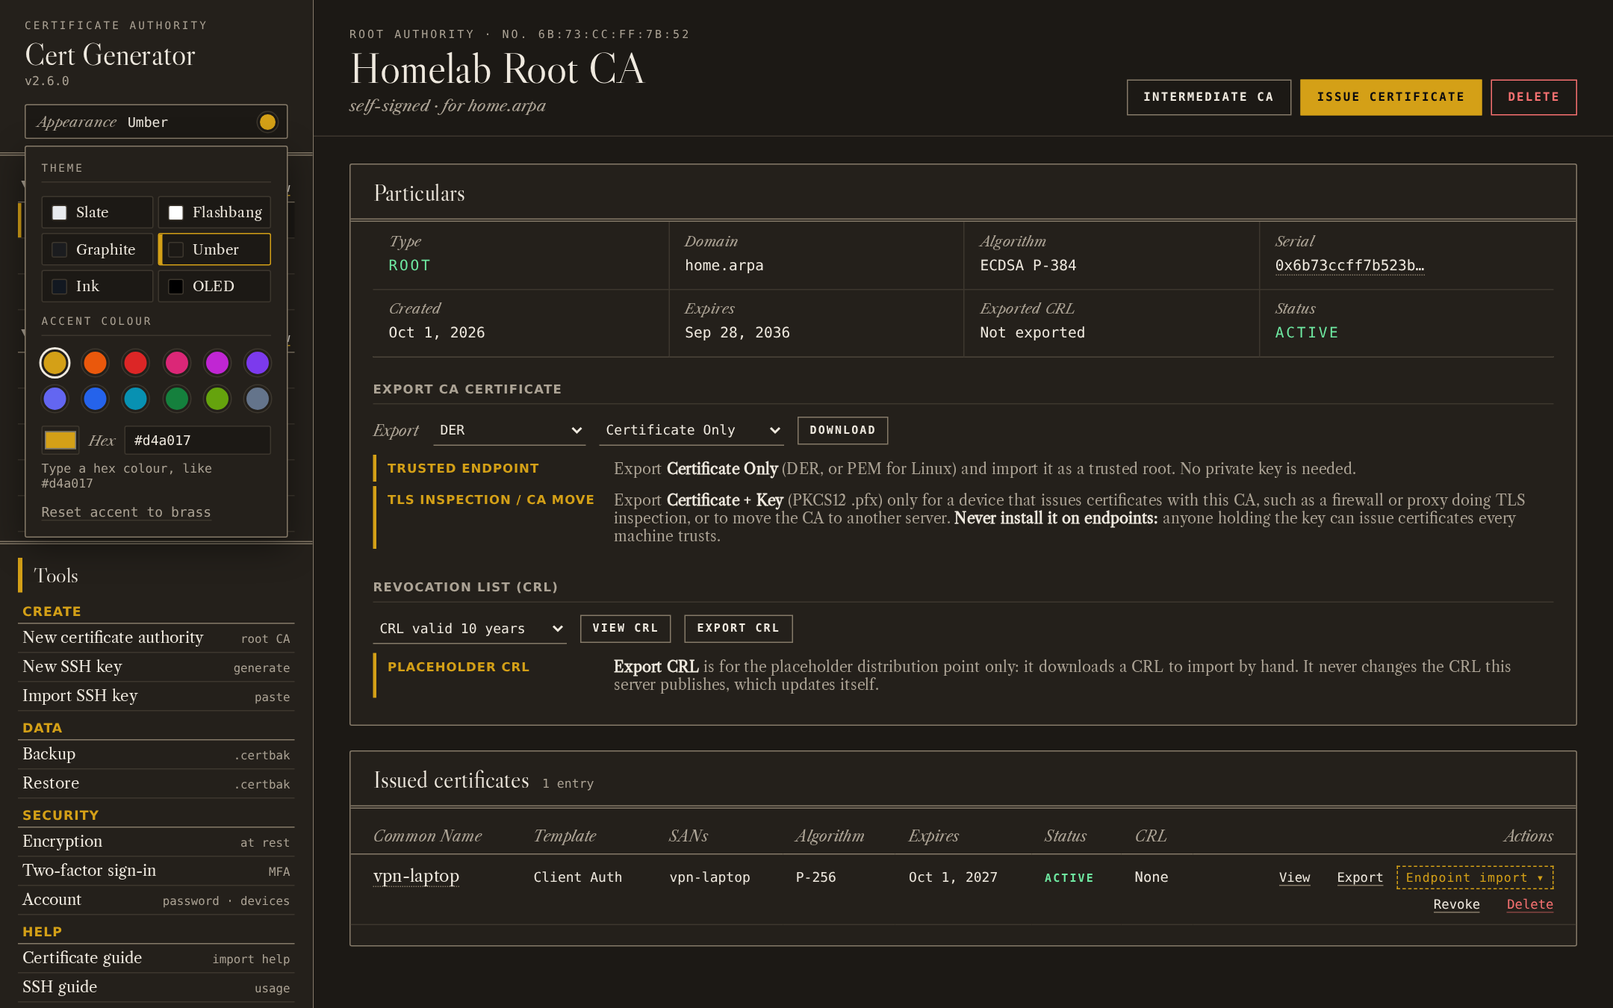
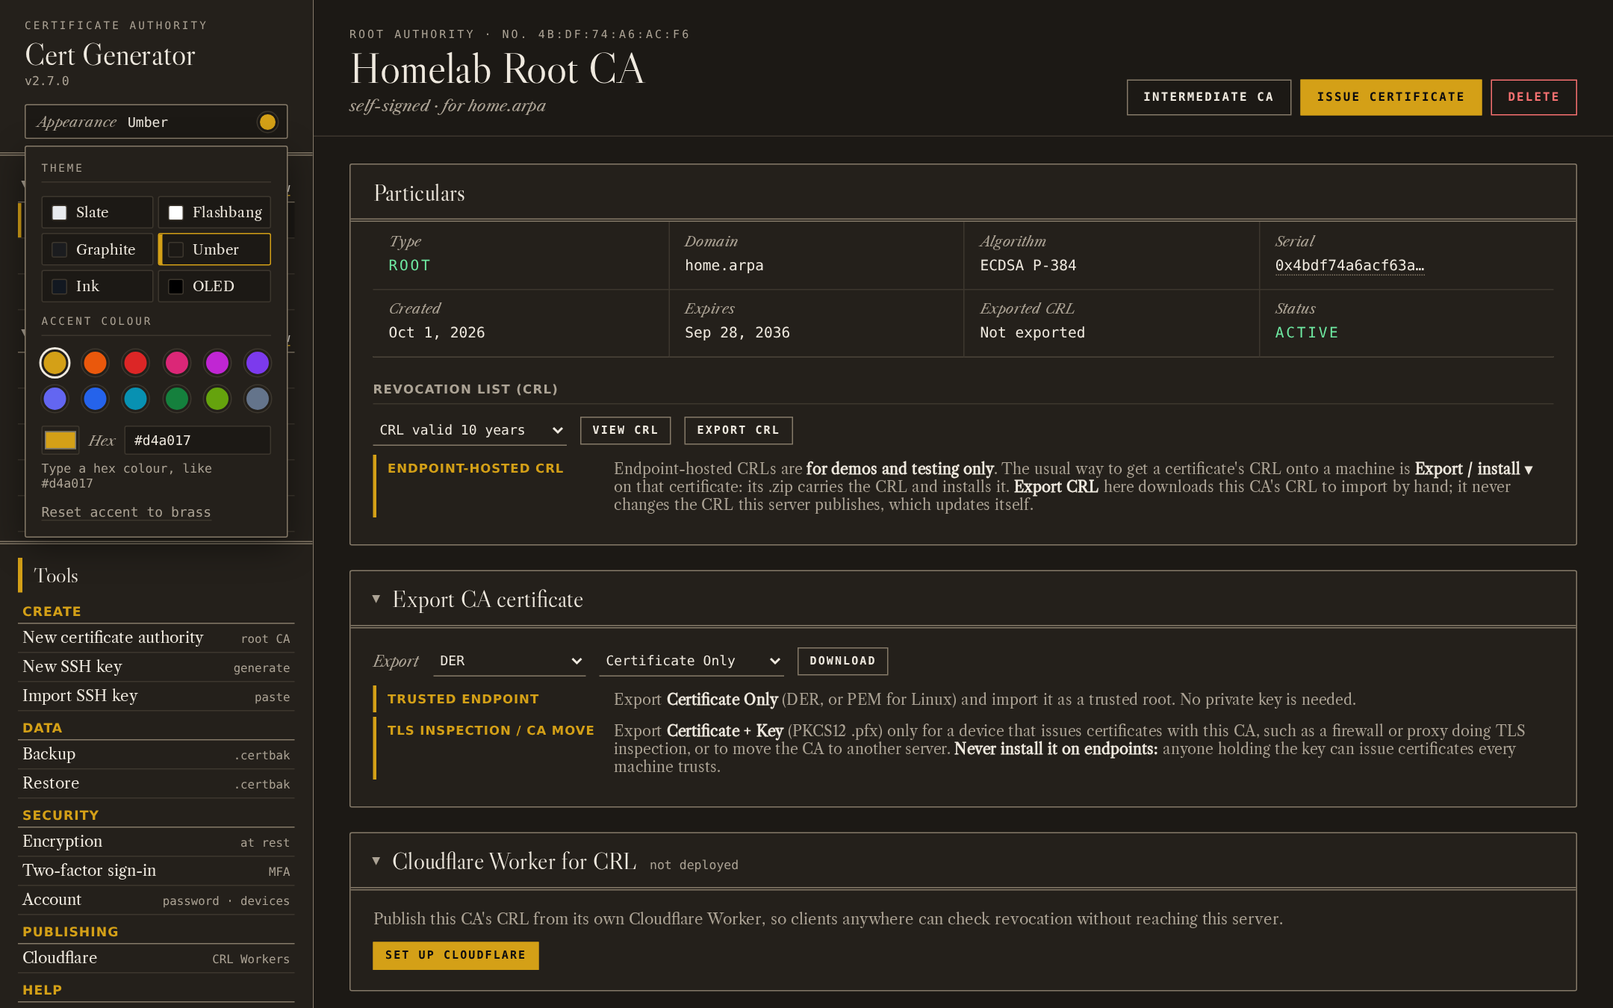
docs: release v2.7.0 with README and screenshots
Version 2.7.0. README: Cloudflare Worker CRL section, Export / install in
place of Endpoint import, Quick start and hardening notes, and the v2.7.0
entry. Screenshots retaken from seeded data, with new ones for
Export / install and the Cloudflare Worker.

Claude-Session: https://claude.ai/code/session_01A1SHbijzjQ1PGD5fiqofva

diff --git a/app/__init__.py b/app/__init__.py
@@ -1,1 +1,1 @@
-__version__ = "2.6.0"
+__version__ = "2.7.0"

diff --git a/README.md b/README.md
@@ -1,6 +1,6 @@
 # Cert Generator
 
-**[GitHub repository](https://github.com/darthrater78/cert-generator)** · **[v2.6.0 release notes](https://github.com/darthrater78/cert-generator/releases/tag/v2.6.0)**
+**[GitHub repository](https://github.com/darthrater78/cert-generator)** · **[v2.7.0 release notes](https://github.com/darthrater78/cert-generator/releases/tag/v2.7.0)**
 
 A tool for creating Certificate Authorities and issuing self-signed certificates for posture demos. Runs as a **Docker web app** or a **Windows desktop app** — both use the same interface and database format, and backups created in one mode can be restored in the other.
 
@@ -37,10 +37,11 @@ For a CRL that clients fetch over the network, you need the Docker version.
 - **Password-protected exports** — optionally encrypt the private key (PEM); PKCS12 bundles always require a password you choose: there is no default, and the old pre-filled `changeit` is refused
 - **Optional CA chain inclusion** — choose whether to bundle the issuing CA certificate when exporting issued certs
 - **In-app import guide** — step-by-step instructions for importing certificates on Windows, macOS, and Linux for each template type
-- **Endpoint import** — on any certificate, **Endpoint import ▾** asks whether the CA chain is already on the machine, then gives the files to download and copy-paste commands for Windows, macOS or Linux, with Windows stores per Microsoft's layout (root → Trusted Root Certification Authorities, intermediate → Intermediate Certification Authorities, computer certificates → Local Computer › Personal, user certificates → Current User › Personal)
+- **Export / install** — on any certificate, **Export / install ▾** asks whether the CA chain is already on the machine, then gives the files to download and copy-paste commands for Windows, macOS or Linux in one block with **Copy code**, with Windows stores per Microsoft's layout (root → Trusted Root Certification Authorities, intermediate → Intermediate Certification Authorities, computer certificates → Local Computer › Personal, user certificates → Current User › Personal) and a notice when PowerShell must run as Administrator. **Download .zip** packs the certificate, the CA chain if needed, the CRL for an endpoint-hosted certificate, and install / uninstall scripts (`install.cmd` / `uninstall.cmd` on Windows). The **Export file** tab downloads the certificate in any format
 - **Modern crypto algorithms** — Ed25519, ECDSA P-256, ECDSA P-384, RSA-2048, RSA-4096
 - **Revoke certificates** to mark them as no longer trusted
 - **CRL generation and publishing** — optionally embed a CRL Distribution Point in issued certificates. The distribution point is either **this server** (`<address>/crl/<CA id>.crl`, answered without sign-in; server mode only, see [Publishing the CRL](#publishing-the-crl)), where the app signs a 7-day CRL itself, re-signs it on every revocation and renews it before it runs out, a **Cloudflare Worker** per CA (server mode), or **endpoint-hosted** (`http://pki.<domain>/crl/<CA>.crl`, which no server answers): each machine gets the CRL from the certificate's install .zip, which on Windows also answers that address locally, or from an exported CRL you import (see [Endpoint-hosted CRL](#endpoint-hosted-crl-for-endpoints-that-cant-reach-docker-or-cloudflare-windows)). Exported CRLs stay valid as long as you choose (7 days to 10 years, default 10 years); the CA page shows the published CRL and the exported one separately, and each certificate shows where its CRL comes from and whether it is published
+- **Cloudflare Worker CRL distribution point** (Docker only) — each CA can publish its CRL from its own Cloudflare Worker, set up entirely from the app: connect an API token under **Tools › Cloudflare**, then **Deploy**, **Test**, **Push now**, **View live CRL** and **Tear down** on the CA page. Revoking a certificate pushes the new CRL to the Worker, and the hourly renewal keeps it current. See [Cloudflare Worker CRL](#cloudflare-worker-crl)
 - **CRL viewer** — **View CRL** on the CA page (or **Open in CRL viewer** from a certificate) shows the CRL this server publishes: issuer, this and next update, signature, every revoked serial linked to its certificate, fingerprints and the PEM. For a CA it doesn't publish for, it lists the revocations an export would contain now
 - **Step-up confirmation for key material** — downloading a private key (CA, certificate or SSH), copying an SSH private key, backing up and restoring all ask for your password, or an authenticator code when MFA is on, unless you signed in within the last 5 minutes
 - **Revocation survives deletion** — deleting a revoked certificate keeps its serial on the CA's CRL until the certificate would have expired, and deleting a certificate that isn't revoked warns that clients keep trusting it
@@ -56,15 +57,19 @@ For a CRL that clients fetch over the network, you need the Docker version.
 - **Structured logging** — request and operation logging with timestamps, configurable via `LOG_LEVEL` environment variable
 - **Themes and accent colour** — six themes (Slate by default, Flashbang, Graphite, Umber, Ink and OLED) and an accent colour picker (twelve presets, a colour picker or a typed hex value; brass by default), chosen from the Appearance menu and saved per browser; the sign-in pages follow the same choice
 
-<img width="1440" alt="The dashboard on the Slate theme: an intermediate CA's particulars, its Export CA certificate and Revocation list sections, and its register of issued certificates with Endpoint import on each; the sidebar groups Tools into Create, Data, Security and Help" src="docs/screenshots/dashboard.png" />
+<img width="1440" alt="The dashboard on the Slate theme: an intermediate CA's particulars, its Export CA certificate and Revocation list sections, and its Cloudflare Worker card, and its register of issued certificates with Export / install on each; the sidebar groups Tools into Create, Data, Security, Publishing and Help" src="docs/screenshots/dashboard.png" />
 
-<img width="49%" alt="Endpoint import for a computer certificate on Windows: the question whether the CA chain is already on the machine, Download buttons for the root and intermediate CA files, and the PowerShell commands for each store" src="docs/screenshots/endpoint-import.png" /> <img width="49%" alt="The one-time recovery key shown when database encryption is enabled, with Copy, Download .txt and an I've stored it confirmation" src="docs/screenshots/recovery-key.png" />
+<img width="49%" alt="Export / install for a computer certificate on Windows: the question whether the CA chain is already on the machine, the Administrator notice, Download .zip, Download buttons for the CA files and the CRL, and the PowerShell commands with Copy code" src="docs/screenshots/export-install.png" /> <img width="49%" alt="The one-time recovery key shown when database encryption is enabled, with Copy, Download .txt and an I've stored it confirmation" src="docs/screenshots/recovery-key.png" />
 
-<img width="49%" alt="The sign-in page, set as an engraved certificate over a faint openssl readout" src="docs/screenshots/sign-in.png" /> <img width="49%" alt="The Issue Certificate dialog" src="docs/screenshots/issue-certificate.png" />
+<img width="1440" alt="A root CA's Cloudflare Worker for CRL card after Test: the address certificates carry, the Worker name, the last push, and the plain HTTP and HTTPS results with the recommended address" src="docs/screenshots/cloudflare-worker.png" />
 
-<img width="49%" alt="The certificate viewer: a web server certificate's general fields, subject, issuer, extensions, fingerprints and the issuing CA's CRL" src="docs/screenshots/cert-viewer.png" /> <img width="49%" alt="The CRL viewer: the intermediate CA's published CRL with its revoked serials, one linked to its certificate" src="docs/screenshots/crl-viewer.png" />
+<img width="49%" alt="Tools › Cloudflare: the connected account and the Workers this app created, each with its CA and state" src="docs/screenshots/cloudflare-settings.png" /> <img width="49%" alt="The CRL viewer: the intermediate CA's published CRL with its revoked serials, one linked to its certificate" src="docs/screenshots/crl-viewer.png" />
 
-<img width="49%" alt="An SSH key's particulars, public key and export options" src="docs/screenshots/ssh-key.png" /> <img width="49%" alt="The Umber theme with the Appearance menu open: six themes and the accent colour picker" src="docs/screenshots/themes.png" />
+<img width="49%" alt="The sign-in page, set as an engraved certificate over a faint openssl readout" src="docs/screenshots/sign-in.png" /> <img width="49%" alt="The Issue Certificate dialog with Include CRL Distribution Point ticked: the distribution point choice and the address clients fetch the CRL from" src="docs/screenshots/issue-certificate.png" />
+
+<img width="49%" alt="The certificate viewer: a web server certificate's general fields, subject, issuer, extensions, fingerprints and the issuing CA's CRL" src="docs/screenshots/cert-viewer.png" /> <img width="49%" alt="An SSH key's particulars, public key and export options" src="docs/screenshots/ssh-key.png" />
+
+<img width="1440" alt="The Umber theme with the Appearance menu open: six themes and the accent colour picker" src="docs/screenshots/themes.png" />
 
 
 ## Requirements
@@ -99,7 +104,7 @@ sudo mkdir -p /opt/docker/cert-generator && sudo chown 1000:1000 /opt/docker/cer
 ```yaml
 services:
   cert-generator:
-    image: ghcr.io/darthrater78/cert-generator:2.6.0
+    image: ghcr.io/darthrater78/cert-generator:2.7.0
     container_name: cert-generator
     restart: unless-stopped
     security_opt:
@@ -179,6 +184,22 @@ labels:
 
 The desktop app can't serve CRLs (it listens on loopback only), so it offers the endpoint-hosted distribution point alone.
 
+#### Cloudflare Worker CRL
+
+For clients that can't reach this server, each CA can publish its CRL from its own [Cloudflare Worker](https://developers.cloudflare.com/workers/), on Cloudflare's free plan. Everything happens in the app; there is no `wrangler` or command line. Docker only: the EXE never stores a Cloudflare token.
+
+**1. Connect (once).** Turn on database encryption first: the API token can rewrite your CRL Workers, so it is only ever stored encrypted with the database key, and the app can't use it while the database is locked (encryption can't be turned off while Cloudflare is connected). Then open **Tools › Cloudflare** and follow its steps: create a custom API token in the Cloudflare dashboard with **Account · Workers Scripts · Edit** on your account only (for an address on your own domain, add **Zone · Zone · Read**, **Zone · Workers Routes · Edit** and **Zone · DNS · Edit** for that one zone), and paste it with your account ID. The token is checked with Cloudflare and never shown again.
+
+**2. Deploy per CA.** On the CA page, the **Cloudflare Worker for CRL** card deploys a Worker for that CA at `certgen-crl-<CA>-<random>.<your subdomain>.workers.dev`, or at a hostname on one of your Cloudflare domains (Cloudflare creates the DNS record). Pick an address you'll keep: it is written into every certificate issued with it. Then issue certificates with **Include CRL Distribution Point › Cloudflare Worker (this CA)**.
+
+**3. Test.** **Test** fetches the CRL from the Worker over plain HTTP and HTTPS, from this server, and checks that it parses, is signed by the CA, is current and matches what the app last pushed. It recommends the address to put in certificates: plain HTTP with no redirect where that works, since Windows and most clients fetch CRLs over HTTP. **View live CRL** opens the CRL the Worker is serving in the CRL viewer, and **Copy** gives the address for your own testing (`certutil -url`, `openssl crl`).
+
+**Keeping it current.** The CRL is built into the Worker, so publishing is a redeploy. Revoking a certificate asks to confirm and pushes the new CRL; the hourly renewal re-signs and pushes it before it runs out (7-day CRLs, renewed at half-life); **Push now** does it by hand. A failed push shows **not published** on the CA page and in the log, and is retried hourly. **Refresh** re-reads the Worker and checks it still exists in Cloudflare.
+
+**Tear down** deletes the CA's Worker (and its custom domain) after a confirmation that says how many certificates carry its address, since they lose their working CRL. **Tools › Cloudflare** lists every `certgen-crl-*` Worker in the account as **in use**, **unlinked** (in Cloudflare, but no CA here uses it: a deleted CA, a failed setup, a restore or another install of the app) or **missing** (a CA here names a Worker Cloudflare no longer has), with **Delete** and **Delete unlinked**. **Disconnect** deletes the stored token (delete it in the Cloudflare dashboard too); it needs a recent sign-in and is refused while any CA still has a Worker, since the app could no longer update or remove it.
+
+**Security.** The Worker's code is fixed and contains no secrets: it answers `GET` and `HEAD` on its one CRL path, `404`/`405` for anything else, sets no cookies and no CORS headers, and sends `nosniff` and a `default-src 'none'; sandbox` CSP. Nothing on it can write; changing the CRL takes the API token, which stays encrypted in this app's database. A CRL is public by design and signed by the CA, so a Worker can't forge one.
+
 #### Endpoint-hosted CRL, for endpoints that can't reach Docker or Cloudflare (Windows)
 
 A certificate with the **endpoint-hosted** distribution point names `http://pki.<domain>/crl/<CA name>.crl`, an address no server on the network answers. (Older versions called it *placeholder*; the API value is still `placeholder`.) Windows' own revocation check can still use a CRL imported into the certificate store, but programs that download the CRL from that address (some agents, browsers, Java, OpenSSL-based tools) get nothing. For endpoints that can reach neither this server nor a Cloudflare Worker, the Windows install bundle makes the endpoint answer that address itself.
@@ -215,7 +236,7 @@ It removes the certificate, the imported CRL, the hosts line, the URL reservatio
 **Security notes**
 
 - **Exposure:** HTTP.sys accepts the request on any interface, but Windows Firewall blocks inbound port 80 unless you open it, and the only thing served is the CRL, which is public by design.
-- **Tampering:** a CRL is signed, so it can't be forged, but an older valid copy could hide a revocation. That's why the folder is admin-only. The listener runs as LOCAL SERVICE, not SYSTEM, and may use only the reserved path.
+- **Tampering:** a CRL is signed, so it can't be forged, but an older valid copy could hide a revocation. That's why the folder is admin-only. If it already exists and isn't owned by Administrators (any user can create folders in `C:\ProgramData`), or is a link, the install moves it aside as `CertGenerator.untrusted-<time>` and starts fresh, so nobody else can swap the script the listener runs. The listener runs as LOCAL SERVICE, not SYSTEM, and may use only the reserved path.
 - **Freshness** is the real weakness: an endpoint that isn't given the new CRL keeps trusting a revoked certificate until the old CRL expires.
 - **Security tools** may flag the hosts-file edit and the new startup task. That is this install; undo it with `uninstall.cmd`.
 - **Port 80** taken by a program that doesn't use HTTP.sys (Apache, nginx, some Docker setups) stops the listener. `install.cmd` reports it.
@@ -347,6 +368,7 @@ The embedded web server is hardened for both desktop and server use:
 - **Session cookies** — httpOnly, `SameSite=Lax`, signed with `SECRET_KEY`; `Secure` when `COOKIE_SECURE=true`
 - **Cross-site request protection** — state-changing requests from other sites are rejected (using `Sec-Fetch-Site`, falling back to `Origin`)
 - **Internal API** — the routes under `/api/` are the page's own API, authenticated by the session cookie. They are not a stable public interface and can change between releases
+- **Cloudflare token** — stored only encrypted with the database key (connecting requires encryption), never returned by the API, unusable while the database is locked, and scoped by you to Workers Scripts (plus one zone for a custom domain). Cloudflare calls go only to `api.cloudflare.com` with certificate verification
 - **Public CRL path** — `/crl/<id>.crl` is the one unauthenticated route. It accepts only `GET` and `HEAD`, serves only CAs that opted in by issuing a certificate pointing at this server, answers unknown and unpublished CAs with the same `404`, never reads or sets a session cookie, sends the CRL as an attachment under `Content-Security-Policy: default-src 'none'` with an `ETag`, and is rate limited to 300 requests a minute per client address
 - **Security headers** — a Content-Security-Policy that allows no inline script (`script-src 'self'`), `X-Frame-Options: DENY`, `nosniff`, and `Cache-Control: no-store` on API responses
 - **No key material on the server's disk** — exports and backups stream to the browser instead of being written to an export folder. If an older version left export files in `EXPORT_DIR`, a banner offers to review and delete them (only files matching the old export names are touched)
@@ -408,8 +430,9 @@ This works the same in Docker and the Windows EXE. In the EXE, if you set a user
 5. Select your CA in the sidebar
 6. Click **Issue certificate** to generate leaf certs
 7. To trust the CA on a machine, **Download** it from the CA page: the default, **DER · Certificate Only**, is the file an endpoint needs
-8. Click **Endpoint import ▾** on a certificate for step-by-step install commands, or use **Export** to download it in the format you choose
-9. Click **+ New** next to **SSH keys** to generate an SSH key pair, or **Tools › Create › Import SSH key** to add an existing key
+8. Click **Export / install ▾** on a certificate for step-by-step install commands or a .zip with install scripts, or its **Export file** tab to download it in the format you choose
+9. Docker: to publish a CA's CRL on the internet, connect **Tools › Cloudflare** and deploy a Worker from the CA page (see [Cloudflare Worker CRL](#cloudflare-worker-crl))
+10. Click **+ New** next to **SSH keys** to generate an SSH key pair, or **Tools › Create › Import SSH key** to add an existing key
 
 ## Supported algorithms
 
@@ -452,6 +475,34 @@ The database format is identical in both modes. Use **Backup** to create an encr
 ## Version history
 
 Each entry lists its changes per deliverable: a `#### Docker` section means the image is published for that version, a `#### Windows EXE` section means the EXE is built and attached, and anything under another heading (such as `#### Internal`) is carried into the notes as-is. Entries before v2.1.0 predate the split and shipped both.
+
+### v2.7.0 — 2026-10-01
+
+#### Docker
+- **Cloudflare Worker CRL distribution point.** Each CA can publish its CRL from its own Cloudflare Worker, set up entirely in the app: **Tools › Cloudflare** connects an API token (stored encrypted, so database encryption must be on), and the CA page's **Cloudflare Worker for CRL** card deploys the Worker on `workers.dev` or your own domain, then offers **Test**, **Refresh**, **Push now**, **View live CRL**, **Copy** and **Tear down**. Issue certificates with **Distribution point › Cloudflare Worker (this CA)**. See [Cloudflare Worker CRL](https://github.com/darthrater78/cert-generator#cloudflare-worker-crl)
+- **Test** fetches the Worker's CRL over plain HTTP and HTTPS from this server, checks its signature, freshness and that it matches the last push, and recommends the address for certificates
+- Revoking a certificate of a CA with a Worker says the new CRL will be published there and pushes it; the hourly renewal pushes too. A failed push shows **not published** on the CA page and in the log, and is retried hourly
+- **Tools › Cloudflare** lists every Worker the app created in the account as in use, unlinked or missing, with **Delete** and **Delete unlinked**. Tear down and Disconnect say what they affect before they run
+- The Worker is fixed, read-only code: `GET`/`HEAD` on its one CRL path, nothing else, no secrets, cookies or CORS
+- **Export / install ▾** replaces Endpoint import: one panel per certificate with **Windows**, **macOS**, **Linux** and an **Export file** tab (the old Export dialog). All commands sit in one block with **Copy code**, and Windows says when PowerShell must run as Administrator
+- **Download .zip** per OS: the certificate, the CA chain if the machine doesn't have it, the CRL for an endpoint-hosted certificate, and install / uninstall scripts that find their own folder, show each command and explain failures. On Windows, `install.cmd` / `uninstall.cmd` ask for administrator rights, get past the unsigned-script block for that one run, and wait for Enter before closing
+- **Endpoint-hosted** is the new name of the *placeholder* distribution point, and it is for demos and testing only. On Windows, its .zip also makes the endpoint answer the CRL address itself (a hosts entry and a small HTTP.sys listener running as LOCAL SERVICE), and `uninstall.cmd` backs it all out. See [Endpoint-hosted CRL](https://github.com/darthrater78/cert-generator#endpoint-hosted-crl-for-endpoints-that-cant-reach-docker-or-cloudflare-windows)
+- **No default export passwords.** The pre-filled `changeit` is gone and refused by the server; a PKCS12 export needs a password you choose
+- The CA page's **Export CA certificate** and **Cloudflare Worker for CRL** are cards you can fold away, remembered per browser; the CRL note points to the certificate's Export / install as the usual way to get a CRL onto a machine
+- The certificate guides fit the window, their tabs wrap instead of scrolling, and **Open in new window** pops a guide out beside the app. The Quick Start opens by itself while there are no CAs yet
+- Fixed: the password confirmation opened behind the Encryption dialog when creating a recovery key from **Encryption** settings
+- The Windows local CRL server won't reuse a `C:\ProgramData\CertGenerator` folder that someone else created (or a link): it moves it aside, so a non-admin user can't swap the script that runs at boot
+- Fixed: the issued-certificates table ran past its card between about 1400 and 1500px wide, hiding Delete; and on phones a long CRL address pushed a Download button off the Export / install panel
+- README screenshots retaken, with new ones for Export / install and the Cloudflare Worker
+
+#### Windows EXE
+- **Optional sign-in.** On first run the app offers to protect it with a username and password, which become the database encryption password, followed by a one-time recovery key that resets the password and shows the username. **Not now** and **Don't ask again** skip it
+- The window opens maximized, so the whole layout fits on scaled (125–150%) displays
+- The same Export / install panel, .zip bundles, endpoint-hosted rename and Windows local CRL server, no default export passwords, foldable CA cards, adaptive and pop-out guides, Quick Start on first run and the fixes above as Docker. The CRL options say the served distribution point and Cloudflare need the Docker version
+
+#### Internal
+- The browser tests close the Quick Start that now opens on an empty database; a new test covers it. The pop-out guide drops its handle on the app window, with tests for the guide page's headers, path allowlist and the desktop app token
+- Tests run the Cloudflare flow against a fake Cloudflare API, and CI's Windows job parses the generated PowerShell scripts
 
 ### v2.6.0 — 2026-10-01
 
